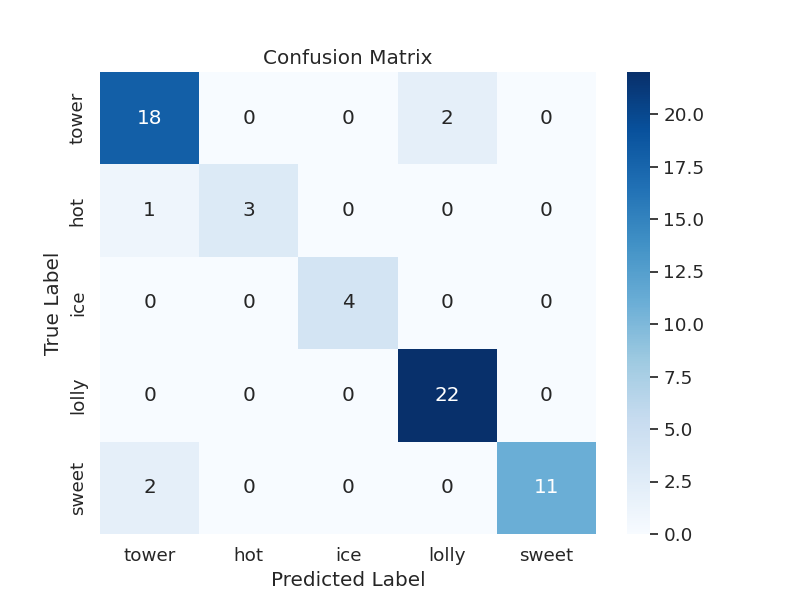
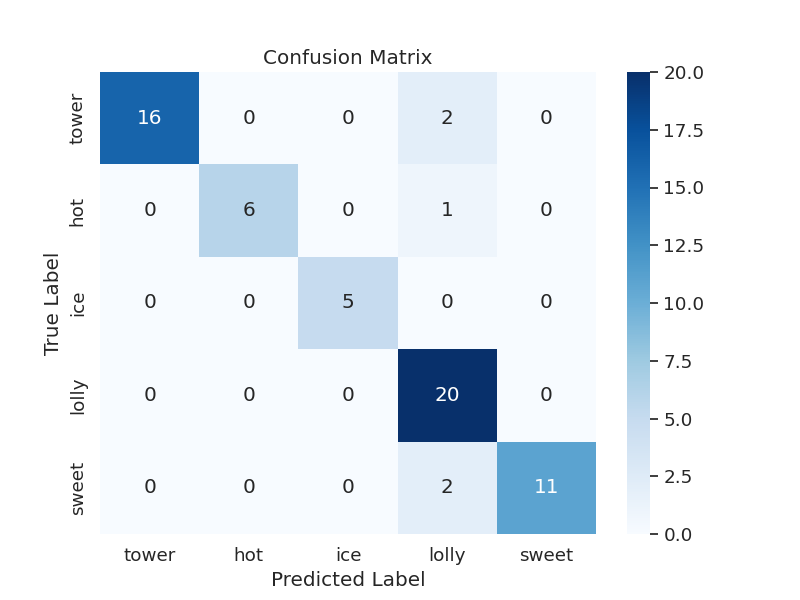
Created deployment file

diff --git a/training_search.py b/training_search.py
@@ -1,3 +1,4 @@
+import pickle
 from sklearn.linear_model import LogisticRegression
 from sklearn.metrics import confusion_matrix, accuracy_score
 from sklearn.ensemble import RandomForestClassifier
@@ -65,9 +66,9 @@ print()
 print(y_train)
 
 
-classifier = KNeighborsClassifier(n_neighbors=7).fit(X_train, y_train)
-# classifier = RandomForestClassifier()
-classifier.fit(X_train, y_train)
+# classifier = KNeighborsClassifier(n_neighbors=7).fit(X_train, y_train)
+classifier = RandomForestClassifier()
+trained_classifier = classifier.fit(X_train, y_train)
 
 
 y_pred = classifier.predict(X_test)
@@ -89,10 +90,12 @@ plt.savefig("confusion.png")
 print("\n")
 print(accuracy_score(y_test, y_pred))
 
+# Checking against single search value ...
 
 # Wrap the single value in a list
 value = []
-search = 'I am feeling for something cold'
+# search = 'I am feeling for something cold'
+search = 'In the beach now'
 value.append(search)
 
 # Transform the single value using the same vectorizer used for training
@@ -103,3 +106,10 @@ category = label_encoder.inverse_transform(y_pred)
 print()
 print(f"For the following search: {search}")
 print(f"The category is: {category[0]}")
+
+# Save Model, to be used later for searching ...
+pickle.dump(trained_classifier, open("classifier.pkl", 'wb'))
+
+# Saving the label encoder, vectorizer to be used for searching ..
+pickle.dump(vectorizer, open('vectorizer.pkl', 'wb'))
+pickle.dump(label_encoder, open('label_encoder.pkl', 'wb'))

diff --git a/deployment_search.py b/deployment_search.py
@@ -1,0 +1,21 @@
+import pickle
+
+
+classifier = pickle.load(open('classifier.pkl', 'rb'))
+vectorizer = pickle.load(open('vectorizer.pkl', 'rb'))
+label_encoder = pickle.load(open('label_encoder.pkl', 'rb'))
+
+# Checking against single search value ...
+value = []
+search = 'I wish I was on a beach now'
+value.append(search)
+
+# Transform the single value using the same vectorizer used for training
+vectorized_value = vectorizer.transform(value)
+
+y_pred = classifier.predict(vectorized_value)
+category = label_encoder.inverse_transform(y_pred)
+
+print()
+print(f"For the following search: {search}")
+print(f"The category is: {category[0]}")
